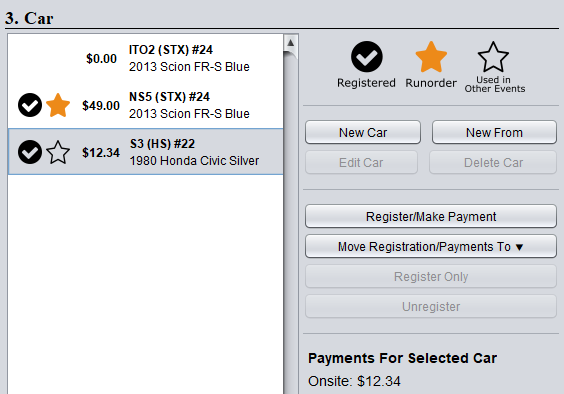
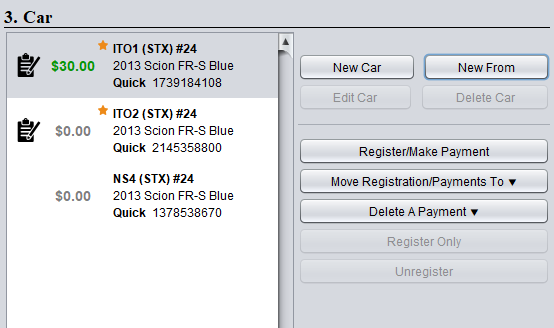
some documentation work

diff --git a/web/nwrsc/templates/docs/wrapper.html b/web/nwrsc/templates/docs/wrapper.html
@@ -50,8 +50,9 @@
         <li class="nav-item dropdown">
           <a class="nav-link dropdown-toggle" href="#" data-toggle="dropdown">Website</a>
           <div class="dropdown-menu">
+          <a class="dropdown-item" href="{{url_for(".docpage", selection="seriessettings.md")}}">Series Settings</a>
           <a class="dropdown-item" href="{{url_for(".docpage", selection="paymentaccounts.md")}}">Setting Up Square/Paypal</a>
-          <a class="dropdown-item" href="{{url_for(".docpage", selection="onlineregadmin.md")}}">Online Event Administration</a>
+          <a class="dropdown-item" href="{{url_for(".docpage", selection="eventsettings.md")}}">Event Administration</a>
           </div>
         </li>
 

diff --git a/web/nwrsc/templates/docs/registration.md b/web/nwrsc/templates/docs/registration.md
@@ -6,47 +6,94 @@ Download/Merge from the [sync tool int the status window](sync.md)
 
 ## Setup Verification 
 
-Select the event you are administering. You can check the Lock checkbox to disable event selection so that
-accidental event selection does not occur during registration activity.
+* Select the event you are administering. You can check the Lock checkbox to disable event selection so that accidental event selection does not occur during registration activity.
+    ![EventLock](images/reglock.png)
+* If using a barcode scanner, verify that the scanner is connected and [setup](http://127.0.0.1/docs/commonbarcodescanner.md)
 
-![EventLock](images/reglock.png)
 
-## Standard Actions
+## Quick Overview
+
+1. Scan or enter part of the drivers name to locate them
+1. Verify any necessary driver and registered car information
+1. Modify or add new information if necessary
+
+## Driver Selection 
 
 1. Do one of the following:
     * scan the driver's barcode to go directly to the driver's information
     * enter part of the first and/or last name, more name information produces a shorter list of drivers in the next step
 
-    ![SearchBox](images/regsearch.png)
+    ![SearchBox](images/regsearch.gif)
 
-2. If not scanning a barcode, select the driver from the list of drivers
-    * If the name is not present, you must click New Driver to create a new driver entry 
+1. If not scanning a barcode, select the driver from the list of drivers. If the name is not present, you must click **New Driver** to create a new driver entry 
 
-    ![DriverEntry](images/regdriver.png)
+1. You can **Edit Driver** to update the member information, the password field is left blank unless you are setting a new password
 
-3. You can **Edit Driver** to update the member information
-    * The barcode number is important if you intend to use barcode scanning 
-    * If a barcode is needed, click Print Label to print to the selected printer device - make sure correct printer is selected.
+    ![EditDriver](images/editdriver.png)
 
-4. Verify the correct car(s), class(es) and index are registered. 
-    * Default status icons for preregistered drivers is the black checkmark as seen in the legend.  If they paid online, an amount will show next to the car.
-    * Cars can be created, edited or deleted. 
-        * **New From** prefills the data with the selected car - which can then be edited as needed (saves having to enter all car info if it only needs a different class or car number) 
-        * The car dialog number field includes a colored square indicator to aid the registration worker
-            * Green - number is avaiable
-            * Yellow - number is used by another driver though the application won't stop the worker from using it
-            * Gray - no data or number provided
+1. If a barcode is needed, verify the label display and click Print Label to print to the selected printer device - make sure correct printer is selected.
 
-    * To change a car entry, select it and click one of the activity buttons
-        * **Register/Make Payment** sets the car status to registered and will ask for the amount paid
-        * **Register Only** sets the car status to registered only
-        * **Unregister** will unregister the car and is only available if the car is registered and *NOT* paid for yet
-        * **Move Registration/Payments** is a special case to move payments from one car to another (i.e. they paid online for one car but moved to another onsite)
+    ![PrintBarcode](images/printbarcode.png)
 
-    * Entries that have a paid amount of $0.00 can be flagged in data entry
-    * The list of payments for a car are listed on the right panel
+1. Any red boxes such as **No Barcode** and **Duplicate Barcode** indicate things that you may need to attend to.
 
-    ![CarEntry](images/regcars.png)
+    ![NoBarcode](images/nobarcode.png)
+    ![DuplicateBarcode](images/duplicatebarcode.png)
+
+
+## Weekend Membership (optional based on series)
+
+1. If SCCA weekend memberships are configured for the series, there will be a **Weekend Membership** button.
+
+1. If the button has the card ![Card](images/card.png) icon, there is already an weekend membership assigned for the current time period. Clicking on the button will display the current weekend membership number.
+
+1. If they don't have an active weekend membership, you can assign a new weekend membership number from the allotted pool.
+    * Click **Weekend Membership** to open the dialog
+    * Click **Assign New Membership**
+    * Make sure the remembered fields contain the correct worker information
+    * Click OK and the new number will be displayed.
+
+    ![Weekend](images/weekend.gif)
+
+
+## Car Selection
+
+### Verifying the Entries
+
+   ![CarEntry](images/regcars.png)
+
+   * The registration icon ![RegIcon](images/reg.png) indicates that the car is registered for the event
+   * A green dollar amount (<span style='color:green'><b>$12.34</b></span>) indicates that they entry has been paid for
+   * An orange star icon ![StarIcon](images/star.png) indicates the car has activity in other events
+   * A grayed out entry with **In Event** over it means that the car is being used in the current event and cannot be changed
+
+   ![InEvent](images/inevent.png)
+
+
+### Creating, Editing or Deleting Cars
+
+   * **New Car** opens the new car dialog with blank fields
+   * **New From** prefills the data with the selected car - which can then be edited as needed (saves having to enter all car info if it only needs a different class or car number) 
+   * **Edit Car** allows changes to select cars to be made, cars that are already in use cannot be edited or deleted
+   * **Delete Car** deletes unused cars from the list
+
+   ![CarDialog](images/cardialog.png)
+
+   The car dialog number field includes a colored square indicator to aid the registration worker
+       * Green ![green](images/numbergreen.png) number is available
+       * Yellow ![yellow](images/numberyellow.png) number is used by another driver though the application won't stop the worker from using it
+       * Gray - no data or number provided
+
+### Registering and/or Paying
+
+   * **Register/Make Payment** sets the car status to registered and will add a new onsite payment to the entry
+   * **Move Registration/Payments** is a special case to move payments from one car to another (i.e. they paid online for one car but moved to another onsite)
+   * **Delete a Payment** lets you delete mistaken onsite payments from a list
+   * **Register Only** sets the car status to registered only
+   * **Unregister** will unregister the car and is only available if the car is registered and *NOT* paid for yet
+
+   * Entries that have a paid amount of $0.00 can be flagged in data entry based on configuration
+
 
 ## Reports
 

diff --git a/web/nwrsc/templates/docs/eventsettings.md b/web/nwrsc/templates/docs/eventsettings.md
@@ -1,7 +1,9 @@
-# Online Registration Admin
+# Event Administration
+
+**<span style='color:red'>This page needs to be updated</span>**
 
 ## Connecting
-1. Open your web browser and connect to http://scorekeeper.wwscc.org/admin/
+1. Open your web browser and connect to http://scorekeeper.wwscc.org/admin/ (Or http://127.0.0.1/admin for the local machine)
 1. Select the series to administer from the pull down menu
 1. You will be prompted for the series password
 1. After a successful password entry, you will be at the series status page

diff --git a/web/nwrsc/templates/docs/seriessettings.md b/web/nwrsc/templates/docs/seriessettings.md
@@ -1,0 +1,5 @@
+# Series Settings
+
+**<span style='color:red'>THIS NEEDS TO BE WRITTEN</span>**
+
+
